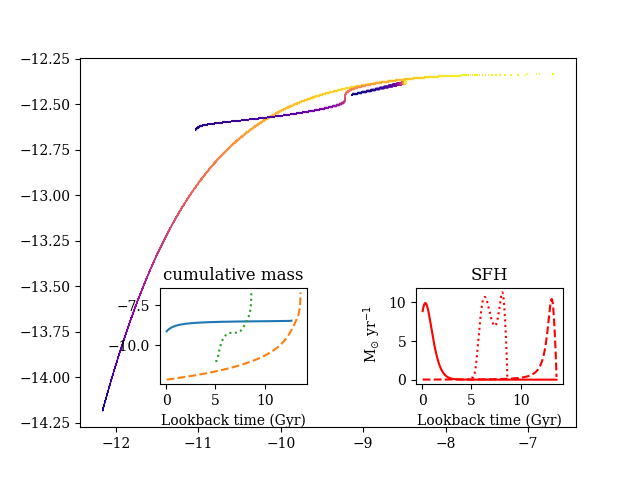
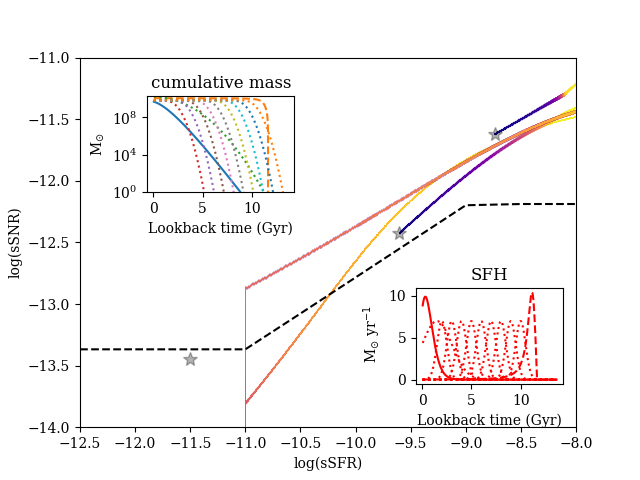
new file:   ../analysis/junk/junk.png 	new file:   ../analysis/junk/what_exp_pwr.py 	modified:   figure_ssfr.png 	modified:   mannucci05.txt 	new file:   plot_examples.py 	modified:   plot_gp_udg.py 	modified:   plot_sfr_snr.py 	new file:   smith12.txt 	new file:   sullivan06.txt 	modified:   temp.p

diff --git a/sSFRvsSNR/plot_examples.py b/sSFRvsSNR/plot_examples.py
@@ -18,8 +18,6 @@ if __name__=='__main__':
     lbu = 13.65
     xx = arange(0.05, lbu, 0.005)
     tt = lbu - xx
-    #p0 = (-1258, 59, 248)
-    p0 = (-23.1, 4.1, -1.1)
     p0a = (1., 4.7, 0.28)
     p0b = (lbu-2., 2.6, 0.8, 0.7)
     p0c = (-3, 4.7, 0.28)
@@ -30,14 +28,13 @@ if __name__=='__main__':
     ax2.set_title('SFH')
     ax2.set_xlabel('Lookback time (Gyr)')
     ax2.set_ylabel(r' M$_{\odot}$ yr$^{-1}$')
+    #ax2.legend(frameon=False)
 
     data = zeros((len(xx), 2),)
     data[:,0] = xx
     data[:,1] = 300*func1(xx, *p0a)
     mdata = cumsum(data[:,1][::-1])[::-1]*0.005*1e9*0.4
-    sfh_val = data[:,1]/mdata
-    #sfh_val[where(sfh_val < 1e-11)]=1e-11
-    rdata = pss.rate_per_galaxy(data, p0 = p0, frac_ia = 0.06)
+    rdata = pss.rate_per_galaxy(data, p0 = (-1258, 59, 248), frac_ia = 0.06)
     junk, rdn=u.recast(data[:,0], 0., lbu-rdata[:,0], rdata[:,1])
 
     ax3 = axes([0.23, 0.60, 0.23, 0.2])
@@ -46,7 +43,7 @@ if __name__=='__main__':
     ax3.set_ylabel(r'M$_{\odot}$')
     ax3.set_xlabel('Lookback time (Gyr)')
     ax2.plot(data[:,0], data[:,1],'r-', label='"Grean Pea" Dwarf')
-    ax.scatter(log10(sfh_val), log10(rdn/mdata), c=range(len(data[:,0])), cmap='plasma', marker='_', s=1)
+    ax.scatter(log10(data[:,1]/mdata), log10(rdn/mdata), c=range(len(data[:,0])), cmap='plasma', marker='_', s=1)
     ax.plot(log10(data[:,1]/mdata)[0], log10(rdn/mdata)[0], '*', ms=10, color='k', alpha=0.3)
 
 
@@ -55,49 +52,44 @@ if __name__=='__main__':
     data[:,1] = 18*func2(xx, *p0b)
     data[:,1][isnan(data[:,1])]=0.0
     mdata = cumsum(data[:,1][::-1])[::-1]*0.005*1e9
-    sfh_val = data[:,1]/mdata
-    sfh_val[where(sfh_val < 1e-11)]=1e-11
-    rdata = pss.rate_per_galaxy(data, p0 = p0, frac_ia = 0.06)
+    rdata = pss.rate_per_galaxy(data, p0 = (-1258, 59, 248), frac_ia = 0.06)
     junk, rdn=u.recast(data[:,0], 0., lbu-rdata[:,0], rdata[:,1])
 
     ax3.plot(data[:,0], mdata, '--')
     ax2.plot(data[:,0], data[:,1],'r--', label='Ultra Diffuse Dwarf')
-    ax.scatter(log10(sfh_val), log10(rdn/mdata), c=range(len(data[:,0])), cmap='plasma', marker='_', s=1)
+    ax.scatter(log10(data[:,1]/mdata), log10(rdn/mdata), c=range(len(data[:,0])), cmap='plasma', marker='_', s=1)
     ax.plot(log10(data[:,1]/mdata)[0], log10(rdn/mdata)[0], '*', ms=10, color='k', alpha=0.3)
 
     data = zeros((len(xx), 2),)
     data[:,0] = xx
+    ##data[:,1] = 2.25*func1(xx, *p0c)+0.18*func2(xx, *p0d)
     p_o = (7, 1.5, 1.5)
     data[:,1] = u.gauss(xx,*p_o) 
     mdata = cumsum(data[:,1][::-1])[::-1]*0.005*1e9*0.8
-    sfh_val = data[:,1]/mdata
-    sfh_val[where(sfh_val < 1e-11)]=1e-11
-    rdata = pss.rate_per_galaxy(data, p0 = p0, frac_ia = 0.06)
+    rdata = pss.rate_per_galaxy(data, p0 = (-1258, 59, 248), frac_ia = 0.06)
     junk, rdn=u.recast(data[:,0], 0., lbu-rdata[:,0], rdata[:,1])
 
 
     ax3.plot(data[:,0], mdata, ':')
     ax2.plot(data[:,0],data[:,1],'r:', label='Dwarf')
-    ax.scatter(log10(sfh_val), log10(rdn/mdata), c=range(len(data[:,0])), cmap='plasma', marker='_', s=1)
+    ax.scatter(log10(data[:,1]/mdata), log10(rdn/mdata), c=range(len(data[:,0])), cmap='plasma', marker='_', s=1)
     ax.plot(log10(data[:,1]/mdata)[0], log10(rdn/mdata)[0], '*', ms=10, color='k', alpha=0.3)
 
-    nns = arange(2,11,1)
-    for nn in nns:
-        data = zeros((len(xx), 2),)
-        data[:,0] = xx
-        p_o = (7, nn, 0.5)
-        data[:,1] = u.gauss(xx,*p_o) 
-        mdata = cumsum(data[:,1][::-1])[::-1]*0.005*1e9*0.8
-        sfh_val = data[:,1]/mdata
-        sfh_val[where(sfh_val < 1e-11)]=1e-11
-        rdata = pss.rate_per_galaxy(data, p0 = p0, frac_ia = 0.06)
-        junk, rdn=u.recast(data[:,0], 0., lbu-rdata[:,0], rdata[:,1])
+
+    data = zeros((len(xx), 2),)
+    data[:,0] = xx
+    ##data[:,1] = 2.25*func1(xx, *p0c)+0.18*func2(xx, *p0d)
+    p_o = (7, 8., 4.5)
+    data[:,1] = u.gauss(xx,*p_o) 
+    mdata = cumsum(data[:,1][::-1])[::-1]*0.005*1e9*0.8
+    rdata = pss.rate_per_galaxy(data, p0 = (-1258, 59, 248), frac_ia = 0.06)
+    junk, rdn=u.recast(data[:,0], 0., lbu-rdata[:,0], rdata[:,1])
 
 
-        ax3.plot(data[:,0], mdata, ':')
-        ax2.plot(data[:,0],data[:,1],'r:', label='Dwarf')
-        ax.scatter(log10(sfh_val), log10(rdn/mdata), c=range(len(data[:,0])), cmap='plasma', marker='_', s=1)
-        ax.plot(-11.5, log10(rdn/mdata)[0], '*', ms=10, color='k', alpha=0.3)
+    ax3.plot(data[:,0], mdata, ':')
+    ax2.plot(data[:,0],data[:,1],'r:', label='Dwarf')
+    ax.scatter(log10(data[:,1]/mdata), log10(rdn/mdata), c=range(len(data[:,0])), cmap='plasma', marker='_', s=1)
+    ax.plot(log10(data[:,1]/mdata)[0], log10(rdn/mdata)[0], '*', ms=10, color='k', alpha=0.3)
 
 
 
@@ -114,15 +106,15 @@ if __name__=='__main__':
                  [  9.46250054e-03,   1.91379154e-01,   9.59494348e-01]])
 
 
-    ## ax.plot(ssfx, pss.line_fn(ssfx, *p_m), 'b-', label='Our model')
-    ## ps = np.random.multivariate_normal(p_m, p_c, 10000)
-    ## ysample = asarray([pss.line_fn(ssfx, *pi) for pi in ps])
-    ## lower = percentile(ysample, 15.9, axis=0)
-    ## upper = percentile(ysample, 84.1, axis=0)
-    ## ax.fill_between(ssfx, upper, lower, color='blue', alpha=0.2)
-    ## lower = percentile(ysample, 2.5, axis=0)
-    ## upper = percentile(ysample, 97.5, axis=0)
-    ## ax.fill_between(ssfx, upper, lower, color='blue', alpha=0.2)
+    ax.plot(ssfx, pss.line_fn(ssfx, *p_m), 'b-', label='Our model')
+    ps = np.random.multivariate_normal(p_m, p_c, 10000)
+    ysample = asarray([pss.line_fn(ssfx, *pi) for pi in ps])
+    lower = percentile(ysample, 15.9, axis=0)
+    upper = percentile(ysample, 84.1, axis=0)
+    ax.fill_between(ssfx, upper, lower, color='blue', alpha=0.2)
+    lower = percentile(ysample, 2.5, axis=0)
+    upper = percentile(ysample, 97.5, axis=0)
+    ax.fill_between(ssfx, upper, lower, color='blue', alpha=0.2)
     
 
     ax.set_xlim(-12.5, -8.)

diff --git a/sSFRvsSNR/plot_sfr_snr.py b/sSFRvsSNR/plot_sfr_snr.py
@@ -165,13 +165,15 @@ if __name__=='__main__':
 
     p0 = (1.,1.,0.0)
     popt, pcov = curve_fit(line_fn, out[:,0], out[:,1], p0=p0)
+    perr = sqrt(diag(pcov))
     ax.plot(xx, line_fn(xx, *popt), 'b-', label='Our model')
     ps = np.random.multivariate_normal(popt, pcov, 10000)
     ysample = asarray([line_fn(xx, *pi) for pi in ps])
     lower = percentile(ysample, 15.9, axis=0)
     upper = percentile(ysample, 84.1, axis=0)
     ax.fill_between(xx, upper, lower, color='blue', alpha=0.2)
-    
+
+    print(popt,pcov)
 
     ax.set_xlim(-12.5, -8)
     #ax.set_ylim(-14, -11)
@@ -186,6 +188,17 @@ if __name__=='__main__':
     ax.errorbar(data[:,0], log10(data[:,1]),
                 yerr=log10((data[:,1]-data[:,2])/data[:,1]),
                 fmt='o', label='Mannucci et al. (2005)')
+
+
+    data = loadtxt('sullivan06.txt')
+    ax.errorbar(data[:,0], log10(data[:,1]),
+                yerr=log10((data[:,1]-data[:,2])/data[:,1]),
+                fmt='o', label='Sullivan et al. (2006)')
+
+    data = loadtxt('smith12.txt')
+    ax.errorbar(data[:,0], log10(data[:,1]),
+                yerr=log10((data[:,1]-data[:,2])/data[:,1]),
+                fmt='o', label='Smith et al. (2012)')
 
     ax.legend(loc=2,frameon=False)
 

diff --git a/analysis/junk/what_exp_pwr.py b/analysis/junk/what_exp_pwr.py
@@ -1,0 +1,30 @@
+#!/usr/bin/env python
+import os,sys,pdb,scipy,glob
+from pylab import *
+from strolger_util import util as u
+from strolger_util import rates_z as rz
+from scipy.optimize import curve_fit
+
+if __name__=='__main__':
+
+
+    ## mock data
+    tt = arange(0.04,13.6,0.1)
+    p_pwr = (-1., 1.)
+    yy = rz.powerdtd(tt, *p_pwr)#, normed=False)
+
+    ax=subplot(111)
+    ax.plot(tt, yy, 'r--')
+    #ax.set_xlim(0.04,14)
+
+
+    p0=(2,2,1)
+    popt,pcov=curve_fit(rz.dtdfunc, tt, yy, p0=p0)
+    ax.plot(tt, rz.dtdfunc(tt,*popt), '-',color='orange')
+    print(popt)
+    p1 = (0.15, 2, -0.7)
+    ax.plot(tt, rz.dtdfunc(tt,*p1), 'r-')
+    
+    savefig('junk.png')
+    
+              
